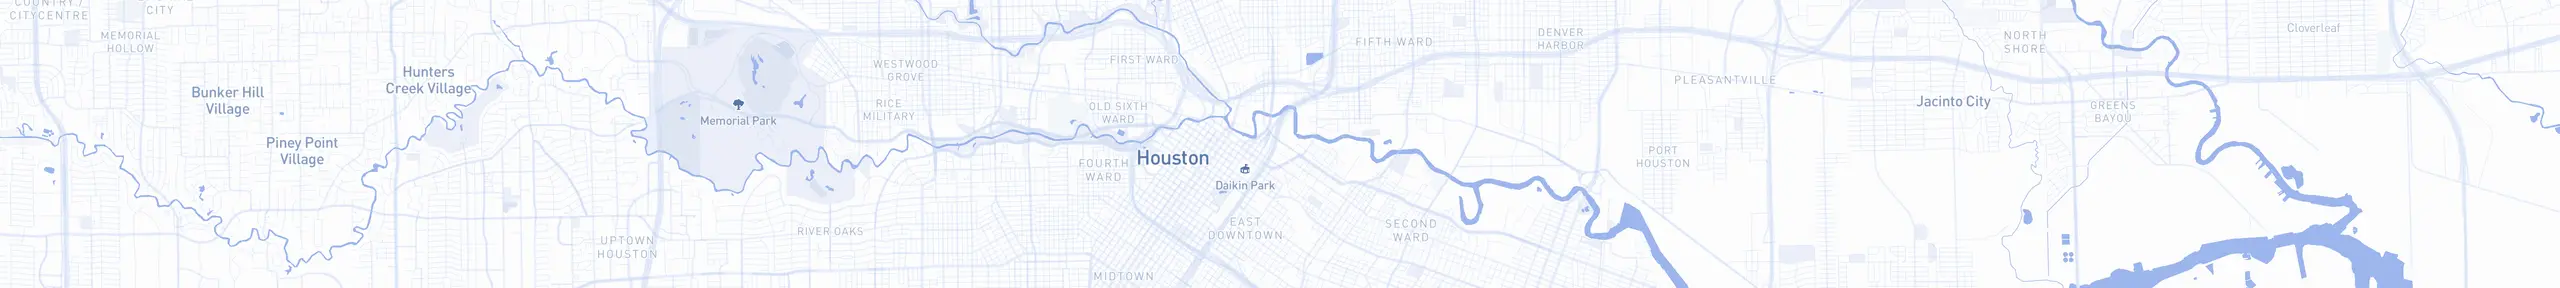
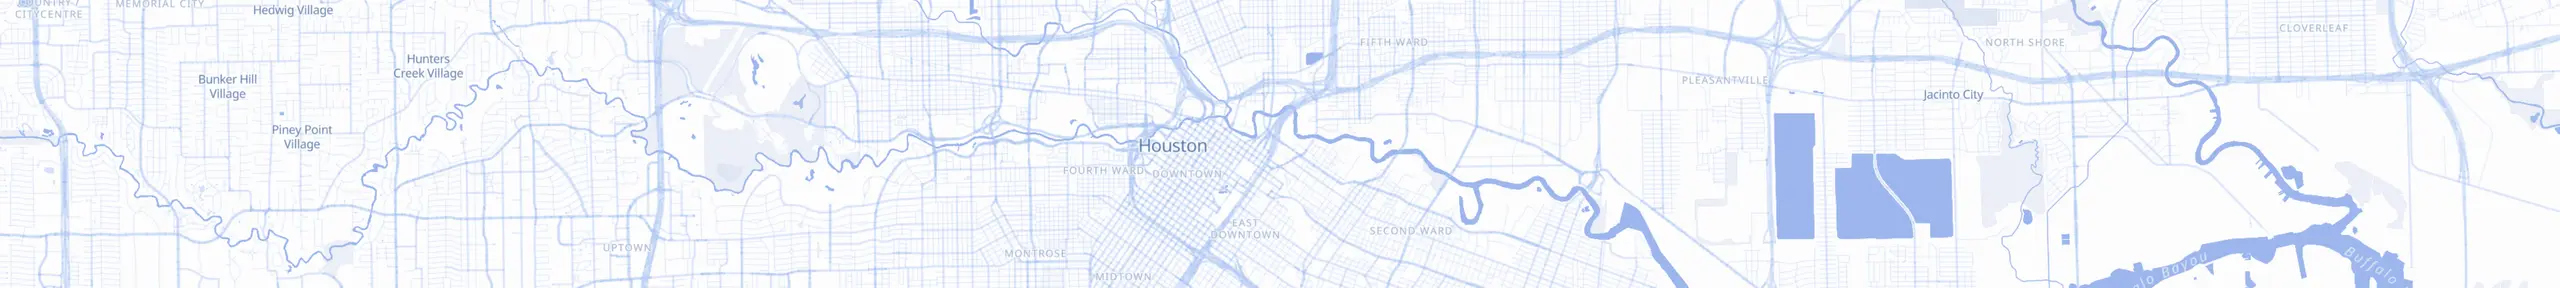
Switch map to OpenFreeMap, refresh share preview and meta tags
- Render static map images from OpenStreetMap data via OpenFreeMap +
  MapLibre GL (no Mapbox, no API key), recolored to the site palette
- Replace Mapbox logo/attribution with OpenFreeMap / OpenMapTiles / OSM credit
- Regenerate site-preview.png (1200x630) to match the current hero
- Add meta description, canonical, og:url/type/site_name/image size+alt,
  twitter:card summary_large_image, theme-color, apple-touch-icon

diff --git a/src/components/HMap/HMap.tsx b/src/components/HMap/HMap.tsx
@@ -2,10 +2,15 @@ import mapDesktop1x from './map-desktop@1x.webp'
 import mapDesktop2x from './map-desktop@2x.webp'
 import mapMobile2x from './map-mobile@2x.webp'
 import mapMobile3x from './map-mobile@3x.webp'
-import mapboxLogo from './mapbox-logo.svg'
 
-// Static render of our Mapbox style (regenerate with `node scripts/render-map.mjs`).
-// Mapbox's terms require the wordmark + text attribution on static maps, so they're overlaid here.
+const attribution = [
+  { href: 'https://openfreemap.org', label: 'OpenFreeMap' },
+  { href: 'https://www.openmaptiles.org/', label: '© OpenMapTiles' },
+  { href: 'https://www.openstreetmap.org/copyright', label: '© OpenStreetMap contributors' },
+]
+
+// Static render of OpenStreetMap data via OpenFreeMap (regenerate with `node scripts/render-map.mjs`).
+// OSM's ODbL license requires visible attribution.
 export const HMap = () => (
   <div className="relative bg-blue-50 overflow-hidden h-72">
     <picture>
@@ -19,39 +24,15 @@ export const HMap = () => (
         className="absolute inset-0 h-full w-full object-cover object-center"
       />
     </picture>
-    <a
-      href="https://www.mapbox.com/about/maps/"
-      target="_blank"
-      rel="noopener noreferrer"
-      className="absolute bottom-2 left-2"
-    >
-      <img src={mapboxLogo} alt="Mapbox" width={88} height={23} />
-    </a>
     <div className="absolute bottom-0 right-0 bg-white/70 px-1.5 py-0.5 text-[11px] text-gray-700">
-      <a
-        href="https://www.mapbox.com/about/maps/"
-        target="_blank"
-        rel="noopener noreferrer"
-        className="hover:underline"
-      >
-        &copy; Mapbox
-      </a>{' '}
-      <a
-        href="https://www.openstreetmap.org/copyright"
-        target="_blank"
-        rel="noopener noreferrer"
-        className="hover:underline"
-      >
-        &copy; OpenStreetMap
-      </a>{' '}
-      <a
-        href="https://apps.mapbox.com/feedback/"
-        target="_blank"
-        rel="noopener noreferrer"
-        className="font-semibold hover:underline"
-      >
-        Improve this map
-      </a>
+      {attribution.map(({ href, label }, i) => (
+        <span key={href}>
+          {i > 0 && ' '}
+          <a href={href} target="_blank" rel="noopener noreferrer" className="hover:underline">
+            {label}
+          </a>
+        </span>
+      ))}
     </div>
   </div>
 )

diff --git a/index.html b/index.html
@@ -3,14 +3,32 @@
   <head>
     <meta charset="UTF-8" />
     <link rel="icon" type="image/svg+xml" href="/src/favicon.svg" />
+    <link rel="apple-touch-icon" href="/apple-touch-icon.png" />
     <meta name="viewport" content="width=device-width, initial-scale=1.0" />
-    <meta property="og:image" content="https://radioclash.co/assets/site-preview.png" />
+    <meta name="theme-color" content="#ffffff" />
+    <title>RadioClash Inc</title>
+    <meta
+      name="description"
+      content="A revolutionary new treatment for cancer of the liver, pancreas, and bones. Effective, more affordable, faster recovery, minimally invasive."
+    />
+    <link rel="canonical" href="https://radioclash.co/" />
+
+    <meta property="og:type" content="website" />
+    <meta property="og:url" content="https://radioclash.co/" />
+    <meta property="og:site_name" content="RadioClash" />
     <meta property="og:title" content="RadioClash Inc" />
     <meta
       property="og:description"
-      content="A revolutionary new treatment for cancer of the liver, pancreas, and bones.  Effective, more affordable, faster recovery, minimally invasive."
+      content="A revolutionary new treatment for cancer of the liver, pancreas, and bones. Effective, more affordable, faster recovery, minimally invasive."
     />
-    <title>RadioClash Inc</title>
+    <meta property="og:image" content="https://radioclash.co/assets/site-preview.png" />
+    <meta property="og:image:width" content="1200" />
+    <meta property="og:image:height" content="630" />
+    <meta
+      property="og:image:alt"
+      content="RadioClash: the future of enhanced electroporation therapy, with the RadioClash probe"
+    />
+    <meta name="twitter:card" content="summary_large_image" />
   </head>
   <body>
     <div id="root"></div>
